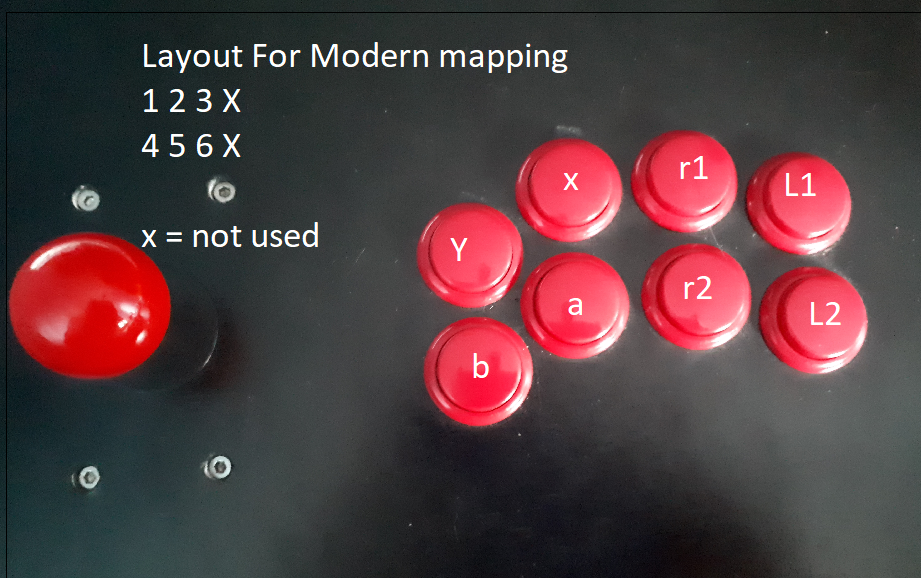
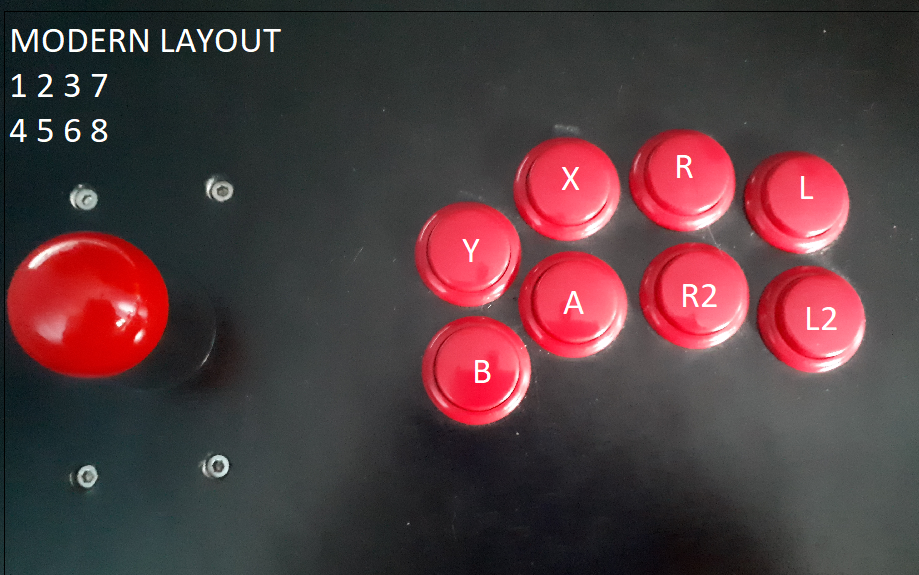
controls

diff --git a/src/mame2003/mame2003.c b/src/mame2003/mame2003.c
@@ -1175,13 +1175,13 @@ int get_mame_ctrl_id(int display_index, int retro_ID)
   {"RetroPad"   #DISPLAY_IDX " Select",      ((DISPLAY_IDX - 1) * 18) + RETRO_DEVICE_ID_JOYPAD_SELECT, JOYCODE_##DISPLAY_IDX##_SELECT}
 
 #define EMIT_RETRO_PAD_10BUTTON(DISPLAY_IDX) \
-  {"RetroPad"   #DISPLAY_IDX " B",           ((DISPLAY_IDX - 1) * 18) + RETRO_DEVICE_ID_JOYPAD_B,      JOYCODE_##DISPLAY_IDX##_BUTTON1}, \
-  {"RetroPad"   #DISPLAY_IDX " Y",           ((DISPLAY_IDX - 1) * 18) + RETRO_DEVICE_ID_JOYPAD_Y,      JOYCODE_##DISPLAY_IDX##_BUTTON2}, \
-  {"RetroPad"   #DISPLAY_IDX " X",           ((DISPLAY_IDX - 1) * 18) + RETRO_DEVICE_ID_JOYPAD_X,      JOYCODE_##DISPLAY_IDX##_BUTTON3}, \
-  {"RetroPad"   #DISPLAY_IDX " A",           ((DISPLAY_IDX - 1) * 18) + RETRO_DEVICE_ID_JOYPAD_A,      JOYCODE_##DISPLAY_IDX##_BUTTON4}, \
-  {"RetroPad"   #DISPLAY_IDX " L",           ((DISPLAY_IDX - 1) * 18) + RETRO_DEVICE_ID_JOYPAD_L,      JOYCODE_##DISPLAY_IDX##_BUTTON5}, \
-  {"RetroPad"   #DISPLAY_IDX " R",           ((DISPLAY_IDX - 1) * 18) + RETRO_DEVICE_ID_JOYPAD_R,      JOYCODE_##DISPLAY_IDX##_BUTTON6}, \
-  {"RetroPad"   #DISPLAY_IDX " L2",          ((DISPLAY_IDX - 1) * 18) + RETRO_DEVICE_ID_JOYPAD_L2,     JOYCODE_##DISPLAY_IDX##_BUTTON7}, \
+  {"RetroPad"   #DISPLAY_IDX " B",           ((DISPLAY_IDX - 1) * 18) + RETRO_DEVICE_ID_JOYPAD_B,      JOYCODE_##DISPLAY_IDX##_BUTTON4}, \
+  {"RetroPad"   #DISPLAY_IDX " Y",           ((DISPLAY_IDX - 1) * 18) + RETRO_DEVICE_ID_JOYPAD_Y,      JOYCODE_##DISPLAY_IDX##_BUTTON1}, \
+  {"RetroPad"   #DISPLAY_IDX " X",           ((DISPLAY_IDX - 1) * 18) + RETRO_DEVICE_ID_JOYPAD_X,      JOYCODE_##DISPLAY_IDX##_BUTTON2}, \
+  {"RetroPad"   #DISPLAY_IDX " A",           ((DISPLAY_IDX - 1) * 18) + RETRO_DEVICE_ID_JOYPAD_A,      JOYCODE_##DISPLAY_IDX##_BUTTON5}, \
+  {"RetroPad"   #DISPLAY_IDX " L",           ((DISPLAY_IDX - 1) * 18) + RETRO_DEVICE_ID_JOYPAD_L,      JOYCODE_##DISPLAY_IDX##_BUTTON3}, \
+  {"RetroPad"   #DISPLAY_IDX " R",           ((DISPLAY_IDX - 1) * 18) + RETRO_DEVICE_ID_JOYPAD_R,      JOYCODE_##DISPLAY_IDX##_BUTTON7}, \
+  {"RetroPad"   #DISPLAY_IDX " L2",          ((DISPLAY_IDX - 1) * 18) + RETRO_DEVICE_ID_JOYPAD_L2,     JOYCODE_##DISPLAY_IDX##_BUTTON6}, \
   {"RetroPad"   #DISPLAY_IDX " R2",          ((DISPLAY_IDX - 1) * 18) + RETRO_DEVICE_ID_JOYPAD_R2,     JOYCODE_##DISPLAY_IDX##_BUTTON8}, \
   {"RetroPad"   #DISPLAY_IDX " L3",          ((DISPLAY_IDX - 1) * 18) + RETRO_DEVICE_ID_JOYPAD_L3,     JOYCODE_##DISPLAY_IDX##_BUTTON9}, \
   {"RetroPad"   #DISPLAY_IDX " R3",          ((DISPLAY_IDX - 1) * 18) + RETRO_DEVICE_ID_JOYPAD_R3,     JOYCODE_##DISPLAY_IDX##_BUTTON10}, \
